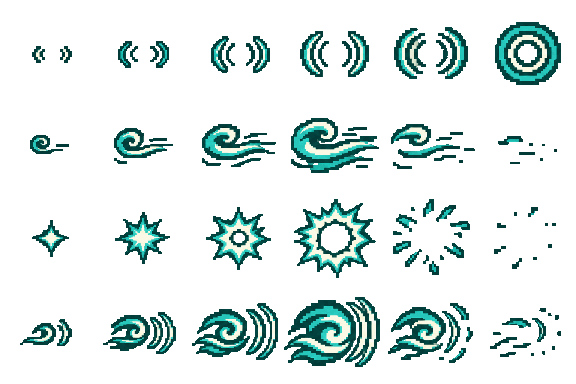
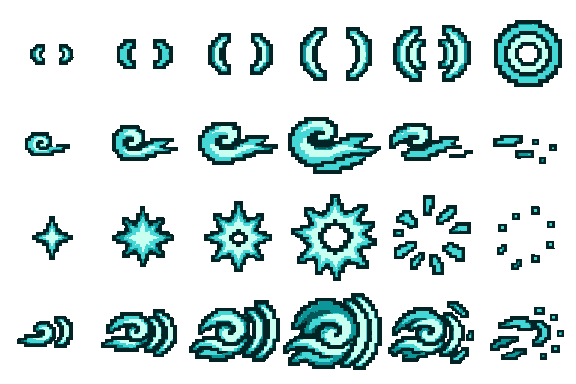
Redesign Beiçola's wind and sound effects
* Redesign Beicola wind and sound effects

* Clarify effect opacity selection

diff --git a/src/beicola.js b/src/beicola.js
@@ -1,11 +1,11 @@
 'use strict';
 
 // Sprites do Beiçola: corpo, ataques e vento/som são atlas independentes.
-const beicolaAttacks=imageAsset('assets/fighters/beicola_attacks.png?v=proportion6');
-const beicolaMovement=imageAsset('assets/fighters/beicola_movement.png?v=proportion6');
-const beicolaSpecials=imageAsset('assets/fighters/beicola_specials.png?v=proportion6');
-const beicolaResults=imageAsset('assets/fighters/beicola_results.png?v=proportion6');
-const beicolaEffects=imageAsset('assets/fighters/beicola_fx.png?v=proportion6');
+const beicolaAttacks=imageAsset('assets/fighters/beicola_attacks.png?v=fx7');
+const beicolaMovement=imageAsset('assets/fighters/beicola_movement.png?v=fx7');
+const beicolaSpecials=imageAsset('assets/fighters/beicola_specials.png?v=fx7');
+const beicolaResults=imageAsset('assets/fighters/beicola_results.png?v=fx7');
+const beicolaEffects=imageAsset('assets/fighters/beicola_fx.png?v=fx7');
 
 function drawBeicolaAtlasFrame(image,index,columns,cell,scale){
  const x=(index%columns)*cell,y=Math.floor(index/columns)*cell;
@@ -90,19 +90,28 @@ function drawBeicolaEffect(f){
  const progress=clamp(move.elapsed/Math.max(.01,move.duration),0,1);
  const col=clamp(Math.floor(progress*6),0,5);
  const row=slot===0?1:slot===1?0:3;
- const enemy=game.f?.[1-f.player];
  const range=f.c.powers[slot]?.range||180;
- const distance=enemy?Math.min(range,Math.max(105,Math.abs(enemy.x-f.x))):range;
- const isUltimate=slot===2;
- const width=clamp(distance*(isUltimate?1.18:1.05),110,isUltimate?820:640);
+ const extent=clamp(move.elapsed/Math.max(.01,move.contact),0,1);
+ const height=slot===2?138:slot===1?104:112;
+ const stamp=slot===2?180:slot===1?104:136;
+ const reach=Math.max(stamp*.55,range*extent);
+ const visibleWidth=Math.min(stamp,reach);
+ const count=Math.max(1,Math.ceil(reach/(stamp*.8)));
  ctx.save();
  ctx.translate(f.x+f.dir*28,f.y-f.c.size*.68);
  ctx.scale(f.dir,1);
- ctx.globalAlpha=.98;
  ctx.imageSmoothingEnabled=false;
- // A camada visual é desenhada separada e não altera o corpo nem as hitboxes.
- const height=clamp(f.c.size*.48,92,128);
- ctx.drawImage(beicolaEffects,col*96,row*96,96,96,0,-height*.56,width,height);
+ for(let i=0;i<count;i++){
+  const x=count===1?0:i*(reach-visibleWidth)/(count-1);
+  ctx.globalAlpha=(slot===2 ? .92 : .86)*(1-.28*i/Math.max(1,count-1));
+  ctx.drawImage(beicolaEffects,col*96,row*96,96,96,x,-height*.56,visibleWidth,height);
+ }
+ if(move.elapsed>=move.contact&&move.elapsed<move.contact+.12){
+  const enemy=game.f?.[1-f.player];
+  const impact=enemy?Math.min(range,Math.abs(enemy.x-f.x)):range;
+  ctx.globalAlpha=.95;
+  ctx.drawImage(beicolaEffects,3*96,2*96,96,96,impact-52,-58,104,104);
+ }
  ctx.restore();
 }
 

diff --git a/index.html b/index.html
@@ -51,7 +51,7 @@
   <script src="src/textures.js?v=dino-clean-1" defer></script>
   <script src="src/audio.js?v=music-gapless" defer></script>
   <script src="src/poses.js?v=neneu-local-1" defer></script>
-  <script src="src/beicola.js?v=proportion6" defer></script>
+  <script src="src/beicola.js?v=fx7" defer></script>
   <script src="src/menu.js?v=mobile-1" defer></script>
   <script src="src/input.js?v=mobile-1" defer></script>
   <script src="src/match.js?v=arena-select" defer></script>
